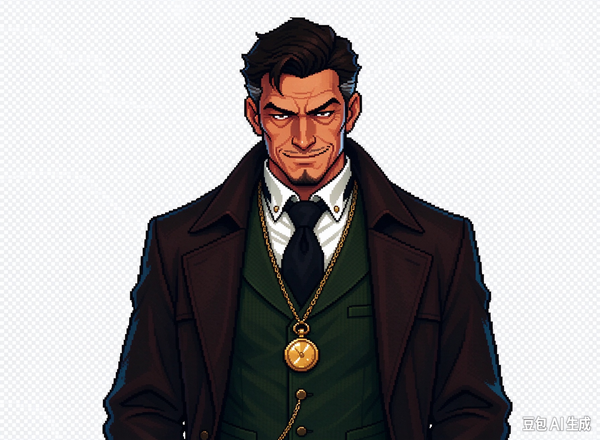
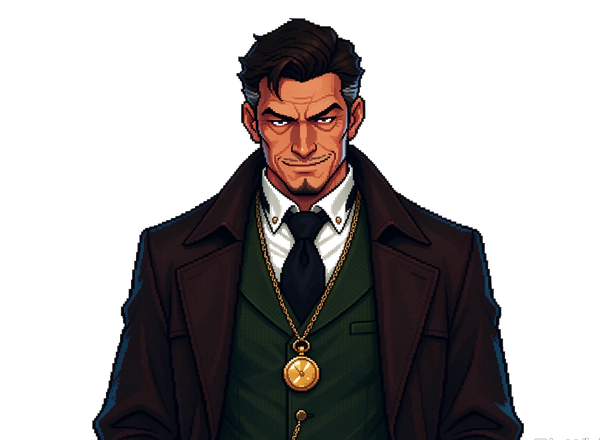
v1.3.1：服务卡shape=2x1

diff --git a/WageBrother.cs b/WageBrother.cs
@@ -76,7 +76,7 @@ internal static class WageBrother
             }
             if (card != null)
             {
-                try { LoadCardSprite(); card.SetName("蛙哥名片"); card.shortDescription = LangHelper.T("双击：花信用点消除一项负面特性。", "Double-click: pay credits to remove a negative perk."); card.SetSprite("custom_atlas", CARD_SPRITE_KEY); var gsb = new GridShapeBuilder(); gsb.SetDataFill(1, 2); card.SetShape(gsb.Build()); } catch { }
+                try { LoadCardSprite(); card.SetName("蛙哥名片"); card.shortDescription = LangHelper.T("双击：花信用点消除一项负面特性。", "Double-click: pay credits to remove a negative perk."); card.SetSprite("custom_atlas", CARD_SPRITE_KEY); var gsb = new GridShapeBuilder(); gsb.SetDataFill(2, 1); card.SetShape(gsb.Build()); } catch { }
                 try { card.EnableTag("wage_bro_card", true); } catch { } try { var d = client.mainDialogue; if (d != null) { d.SetText("蛙哥", LangHelper.T("我来收点晦气。花信用点消一项负面特性，钱货两清。", "I collect trouble. Pay credits to remove a negative perk.")); d.endAction = null; if (d.nextDialogue != null) { d.nextDialogue.endAction = null; d.nextDialogue = null; } } } catch (System.Exception exd) { Core.LogMsg("[蛙哥] 清对话链异常: " + exd.Message); } try { var clone = card.CloneLinked(); ps.AddDirectSellingItemToTable(clone, false, false, false, 0); } catch (System.Exception excard) { Core.LogMsg("[蛙哥] 服务卡上柜台异常: " + excard.Message); }
                 
                 _cardSpawned = true;
